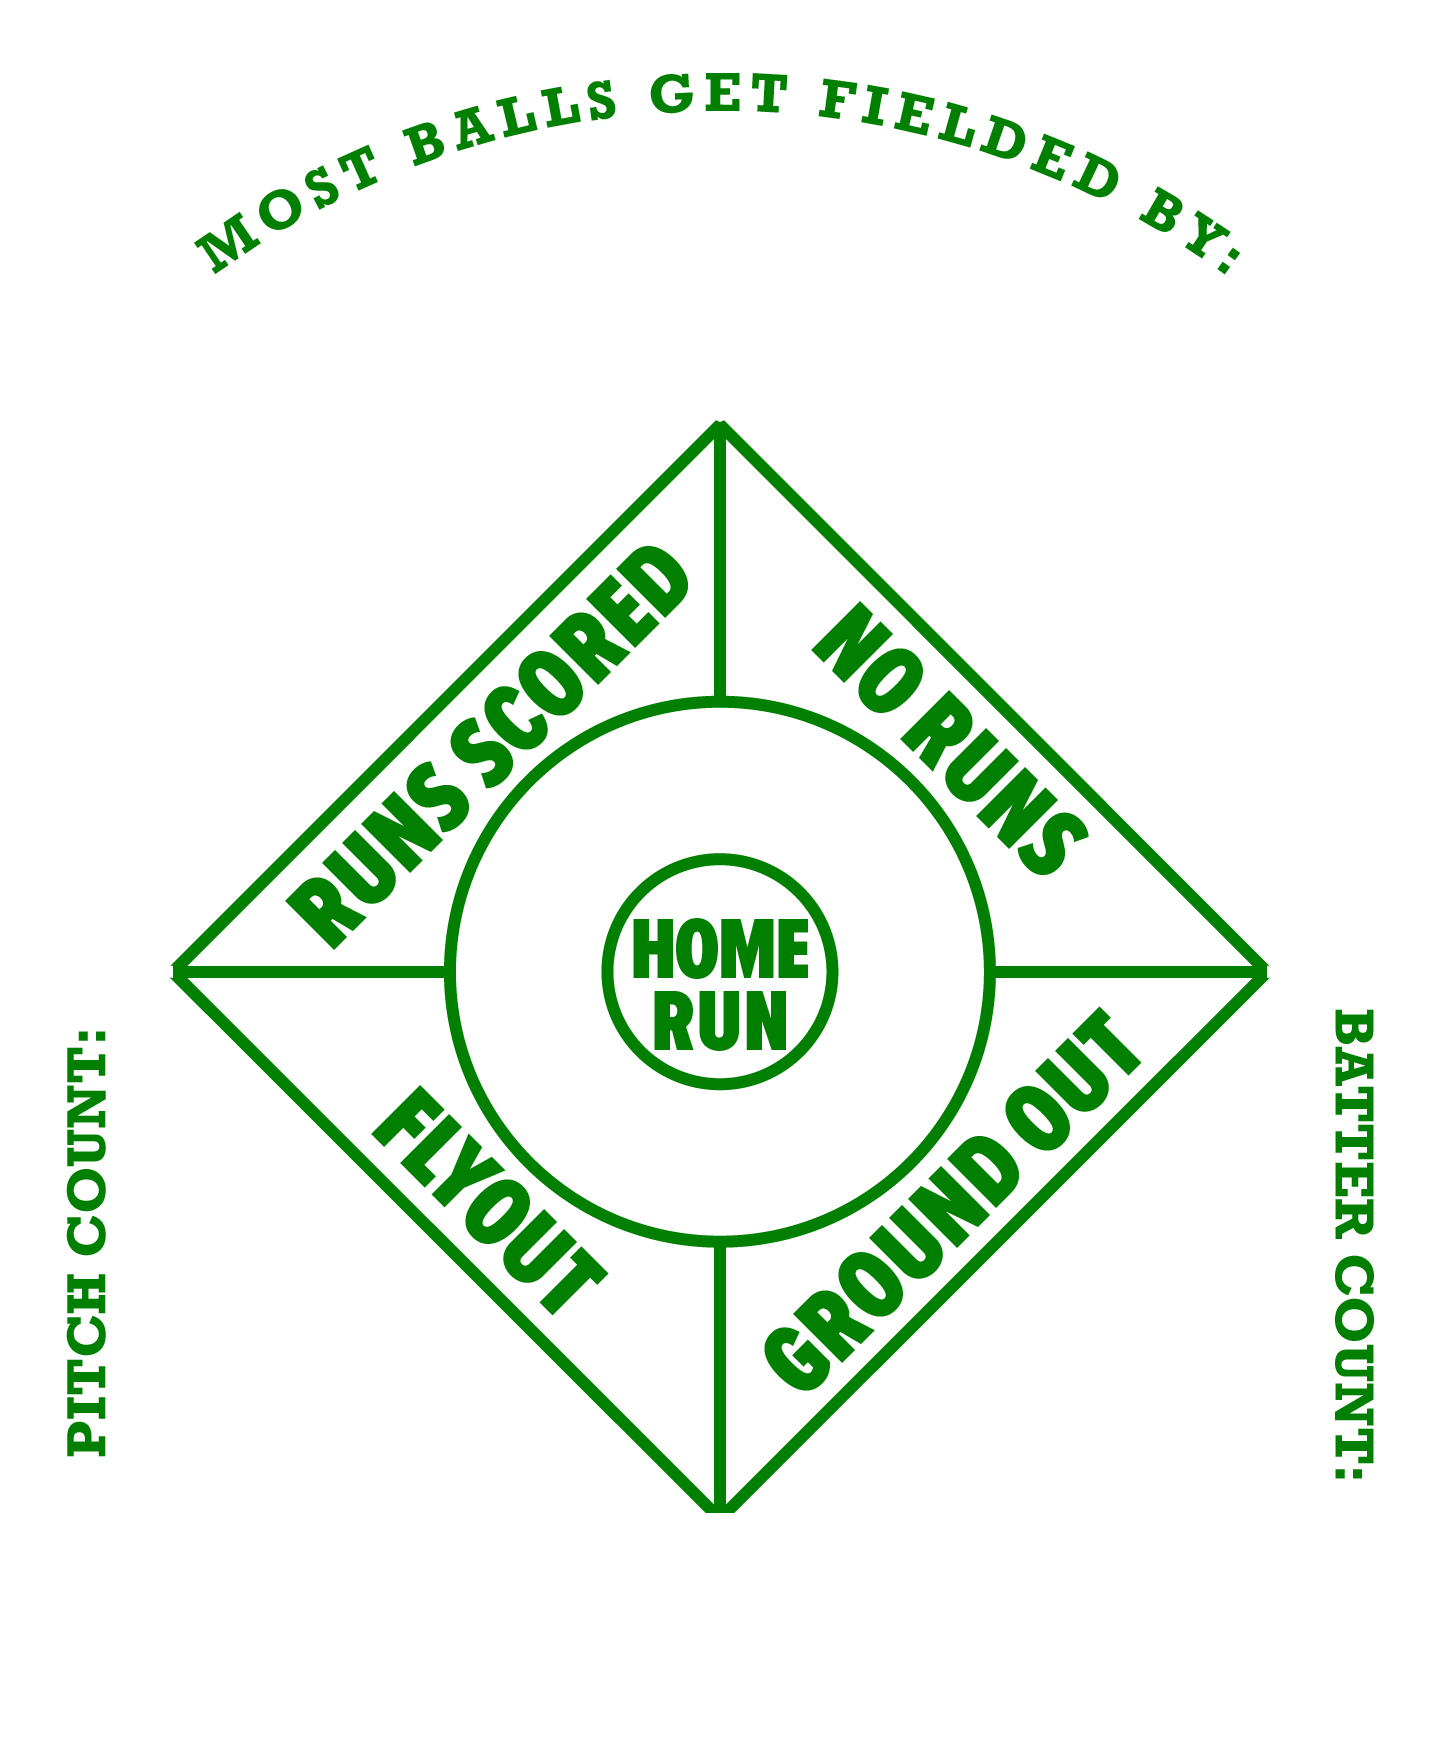
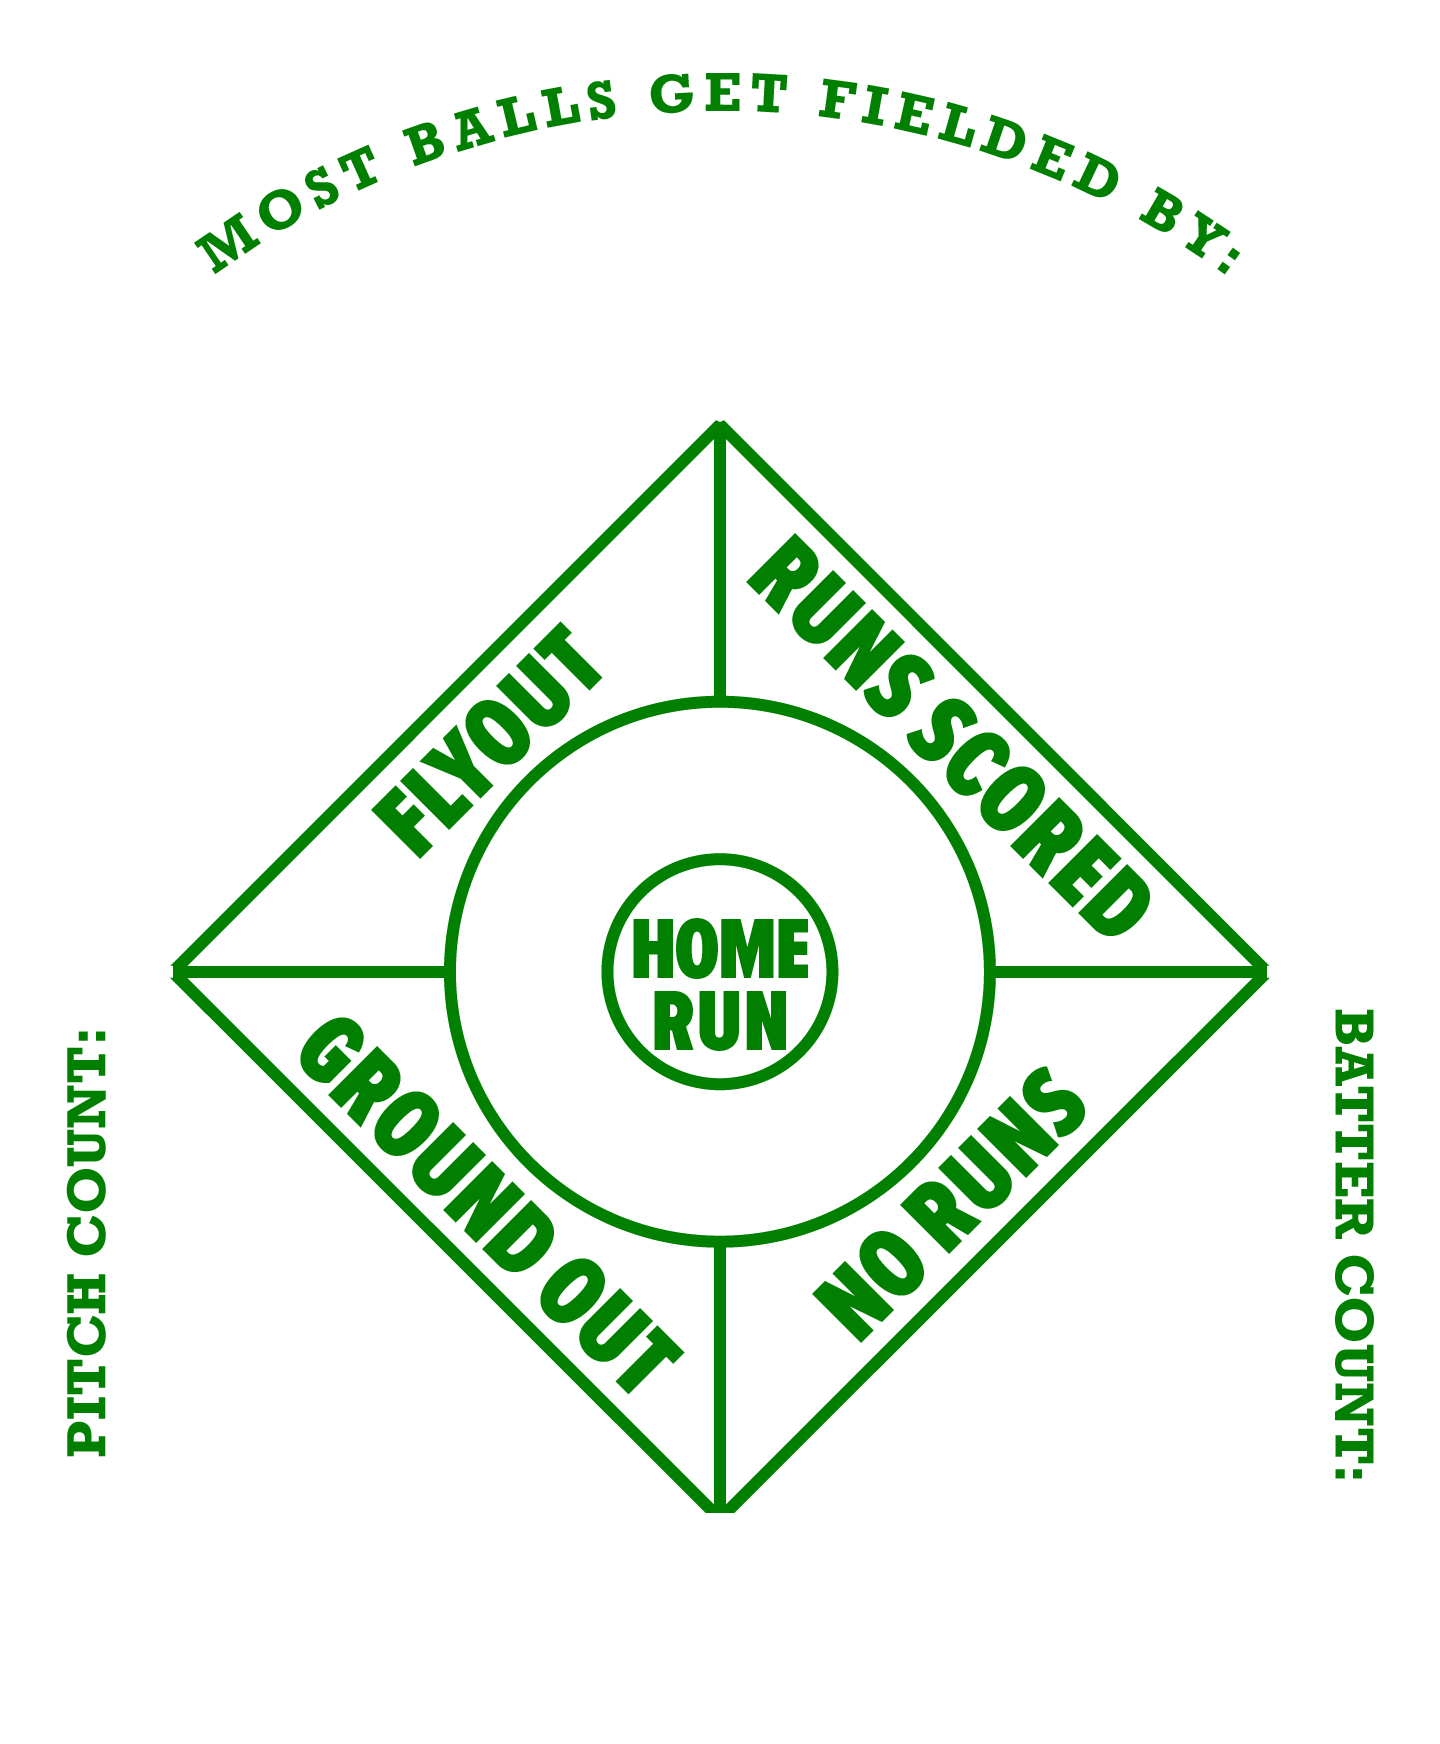
Implemented payouts screen and some UI fixes.

Changed region(s): [[0.1875, 0.3096, 0.8125, 0.805], [0.1875, 0.5883, 0.4688, 0.805], [0.3125, 0.0619, 0.3438, 0.0929]]

diff --git a/webgl/prediction.js b/webgl/prediction.js
@@ -395,6 +395,12 @@ class FieldOverlay extends PIXI.Sprite {
     const texture = PIXI.loader.resources['resources/Prediction-Overlay.png'].texture;
     super(texture);
 
+    /** @type {PIXI.Texture} */
+    this._defaultTexture = texture;
+
+    /** @type {PIXI.Texture} */
+    this._payoutsTexture = PIXI.loader.resources['resources/Prediction-Overlay-Payout.png'].texture;
+
     /** @type {Array.<Ball>} */
     this._balls = balls;
 
@@ -456,6 +462,28 @@ class FieldOverlay extends PIXI.Sprite {
 
   clearHighlightAreas() {
     this.children.forEach(child => child.clearHighlight());
+  }
+
+  /**
+   * Are we showing the payouts or the labels?
+   * @returns {boolean}
+   */
+  isShowingPayouts() {
+    return this.texture === this._payoutsTexture;
+  }
+
+  /**
+   * Toggles showing the payouts for the betting table.
+   */
+  showPayouts() {
+    this.texture = this._payoutsTexture;
+  }
+
+  /**
+   * Hides the payouts.
+   */
+  hidePayouts() {
+    this.texture = this._defaultTexture;
   }
 
   /**
@@ -821,6 +849,29 @@ function initScoreEvents(scoreText) {
 }
 
 /**
+ * Initializes events for the payouts tab.
+ * @param {PIXI.Sprite} payoutsTab
+ * @param {PIXI.Text} label
+ * @param {FieldOverlay} fieldOverlay
+ * @param {PIXI.Sprite} grassBackground
+ */
+function initPayoutsTabEvents(payoutsTab, label, fieldOverlay, grassBackground) {
+  payoutsTab.interactive = true;
+  payoutsTab.on('tap', () => {
+    if (fieldOverlay.isShowingPayouts()) {
+      label.text = 'Payouts'.toUpperCase();
+      grassBackground.texture = PIXI.loader.resources['resources/Prediction-BG.jpg'].texture;
+      fieldOverlay.hidePayouts();
+    } else {
+      label.text = 'Labels'.toUpperCase();
+      grassBackground.texture = PIXI.loader.resources['resources/Prediction-BG-Payout.jpg'].texture;
+      fieldOverlay.showPayouts();
+    }
+    renderer.isDirty = true;
+  });
+}
+
+/**
  * Initializes events for the prediction correct overlay.
  * @param {PredictionCorrectOverlay} overlay
  * @param {PIXI.Point} scoreTextPosition
@@ -953,21 +1004,21 @@ function createFieldOverlay(balls) {
       56.0, 692.0,
       12.0, 836.0
     ]),
-    [PlaybookEvents.NO_RUNS]: new PIXI.Polygon([
+    [PlaybookEvents.RUN_SCORED]: new PIXI.Polygon([
       726.0, 442.0,
       726.0, 696.0,
       916.0, 778.0,
       996.0, 966.0,
       1252.0, 966.0
     ]),
-    [PlaybookEvents.RUN_SCORED]: new PIXI.Polygon([
+    [PlaybookEvents.FLY_OUT]: new PIXI.Polygon([
       714.0, 442.0,
       188.0, 966.0,
       444.0, 966.0,
       524.0, 778.0,
       714.0, 696.0
     ]),
-    [PlaybookEvents.FLY_OUT]: new PIXI.Polygon([
+    [PlaybookEvents.NO_RUNS]: new PIXI.Polygon([
       714.0, 1526.0,
       714.0, 1250.0,
       520.0, 1168.0,
@@ -1092,7 +1143,7 @@ function undoPrediction(state, area, ball) {
 
 function setup() {
   // Add grass to screen.
-  const grassTexture = PIXI.loader.resources['resources/Prediction-BG-Grass.jpg'].texture;
+  const grassTexture = PIXI.loader.resources['resources/Prediction-BG.jpg'].texture;
   const grass = new PIXI.Sprite(grassTexture);
   grass.scale.x = window.innerWidth / grassTexture.width;
   grass.scale.y = window.innerHeight / grassTexture.height;
@@ -1199,38 +1250,39 @@ function setup() {
   initScoreEvents(score);
   scoreTab.addChild(score);
 
-  // Add odds tab.
-  const oddsTabTexture = PIXI.loader.resources['resources/Prediction-Oddstab.png'].texture;
-  const oddsTab = new PIXI.Sprite(oddsTabTexture);
-  const oddsTabScale = ballSlot.height / oddsTabTexture.height;
-  oddsTab.scale.set(oddsTabScale, oddsTabScale);
-  oddsTab.position.set(window.innerWidth - oddsTab.width, ballSlot.position.y - oddsTab.height);
-  stage.addChild(oddsTab);
+  // Add payouts tab.
+  const payoutsTabTexture = PIXI.loader.resources['resources/Prediction-Oddstab.png'].texture;
+  const payoutsTab = new PIXI.Sprite(payoutsTabTexture);
+  const payoutsTabScale = ballSlot.height / payoutsTabTexture.height;
+  payoutsTab.scale.set(payoutsTabScale, payoutsTabScale);
+  payoutsTab.position.set(window.innerWidth - payoutsTab.width, ballSlot.position.y - payoutsTab.height);
+  stage.addChild(payoutsTab);
 
-  const oddsTabLabel = new PIXI.Text('Payouts'.toUpperCase());
-  const oddsTabLabelFontSize = 32.0;
-  const oddsTabLabelScale = ((oddsTab.height / 2 - 8.0) / oddsTabLabelFontSize) * (1 / oddsTabScale);
-  oddsTabLabel.style.fill = 0xffffff;
-  oddsTabLabel.style.fontSize = oddsTabLabelFontSize;
-  oddsTabLabel.style.fontFamily = 'proxima-nova-excn';
-  oddsTabLabel.style.fontWeight = 900;
-  oddsTabLabel.anchor.set(1.0, 1.0);
-  oddsTabLabel.position.set((oddsTab.width - 16.0) * (1 / oddsTabScale), oddsTabTexture.height / 2);
-  oddsTabLabel.scale.set(oddsTabLabelScale, oddsTabLabelScale);
-  oddsTab.addChild(oddsTabLabel);
+  const payoutsTabLabel = new PIXI.Text('Payouts'.toUpperCase());
+  const payoutsTabFontSize = 32.0;
+  const payoutsTabLabelScale = ((payoutsTab.height / 2 - 8.0) / payoutsTabFontSize) * (1 / payoutsTabScale);
+  payoutsTabLabel.style.fill = 0xffffff;
+  payoutsTabLabel.style.fontSize = payoutsTabFontSize;
+  payoutsTabLabel.style.fontFamily = 'proxima-nova-excn';
+  payoutsTabLabel.style.fontWeight = 900;
+  payoutsTabLabel.anchor.set(1.0, 1.0);
+  payoutsTabLabel.position.set((payoutsTab.width - 16.0) * (1 / payoutsTabScale), payoutsTabTexture.height / 2);
+  payoutsTabLabel.scale.set(payoutsTabLabelScale, payoutsTabLabelScale);
+  payoutsTab.addChild(payoutsTabLabel);
 
-  const oddsTabArrow = new PIXI.Text('\u22b3');
-  const oddsTabArrowScale = oddsTabLabelScale;
-  oddsTabArrow.style.fill = 0xffffff;
-  oddsTabArrow.style.fontSize = 32.0;
-  oddsTabArrow.style.fontFamily = 'proxima-nova-excn';
-  oddsTabArrow.anchor.set(1.0, 0.0);
-  oddsTabArrow.scale.set(-oddsTabArrowScale, oddsTabArrowScale);
-  oddsTabArrow.position.set(
-    (oddsTab.width - 16.0) * (1 / oddsTabScale) - oddsTabArrow.width,
-    (oddsTabTexture.height / 2)
+  const payoutsTabArrow = new PIXI.Text('\u22b3');
+  const payoutsTabArrowScale = payoutsTabLabelScale;
+  payoutsTabArrow.style.fill = 0xffffff;
+  payoutsTabArrow.style.fontSize = 32.0;
+  payoutsTabArrow.style.fontFamily = 'proxima-nova-excn';
+  payoutsTabArrow.anchor.set(1.0, 0.0);
+  payoutsTabArrow.scale.set(-payoutsTabArrowScale, payoutsTabArrowScale);
+  payoutsTabArrow.position.set(
+    (payoutsTab.width - 16.0) * (1 / payoutsTabScale) - payoutsTabArrow.width,
+    (payoutsTabTexture.height / 2)
   );
-  oddsTab.addChild(oddsTabArrow);
+  initPayoutsTabEvents(payoutsTab, payoutsTabLabel, fieldOverlay, grass);
+  payoutsTab.addChild(payoutsTabArrow);
 
   /**
    * Begin the animation loop.
@@ -1267,11 +1319,13 @@ configureWebSocket(connection);
 
 // Load the sprites we need.
 PIXI.loader
-  .add('resources/Prediction-BG-Grass.jpg')
+  .add('resources/Prediction-BG.jpg')
+  .add('resources/Prediction-BG-Payout.jpg')
   .add('resources/Prediction-Banner.png')
   .add('resources/Prediction-Holder-BallsSlot.png')
   .add('resources/Prediction-Button-Continue.png')
   .add('resources/Prediction-Overlay.png')
+  .add('resources/Prediction-Overlay-Payout.png')
   .add('resources/Prediction-Oddstab.png')
   .add('resources/Prediction-Scoretab.png')
   .add('resources/Item-Ball.png')

diff --git a/proj.android-studio/app/src/edu/cmu/etc/fanfare/playbook/GcmListener.java b/proj.android-studio/app/src/edu/cmu/etc/fanfare/playbook/GcmListener.java
@@ -60,7 +60,9 @@ public class GcmListener extends FirebaseMessagingService {
     // [END receive_message]
 
     private void handlePlaysCreated(String message) {
-        if (AppActivity.isInForeground && AppActivity.selectedItem == AppActivity.DRAWER_ITEM_PREDICTION) {
+        if (AppActivity.isInForeground &&
+            AppActivity.selectedItem == AppActivity.DRAWER_ITEM_PREDICTION ||
+            AppActivity.selectedItem == AppActivity.DRAWER_ITEM_COLLECTION) {
             return;
         }
 

diff --git a/proj.android-studio/app/src/edu/cmu/etc/fanfare/playbook/OutlinedTextView.java b/proj.android-studio/app/src/edu/cmu/etc/fanfare/playbook/OutlinedTextView.java
@@ -73,7 +73,8 @@ public class OutlinedTextView extends AppCompatTextView {
         mPaint.setStyle(Paint.Style.STROKE);
         mPaint.setTextSize(getTextSize());
         mPaint.setTypeface(getTypeface());
-        mPaint.setStrokeJoin(Paint.Join.BEVEL);
+        mPaint.setStrokeJoin(Paint.Join.MITER);
+        mPaint.setStrokeMiter(2.0f);
         if (Build.VERSION.SDK_INT >= Build.VERSION_CODES.LOLLIPOP) {
             mPaint.setLetterSpacing(getLetterSpacing());
         }
